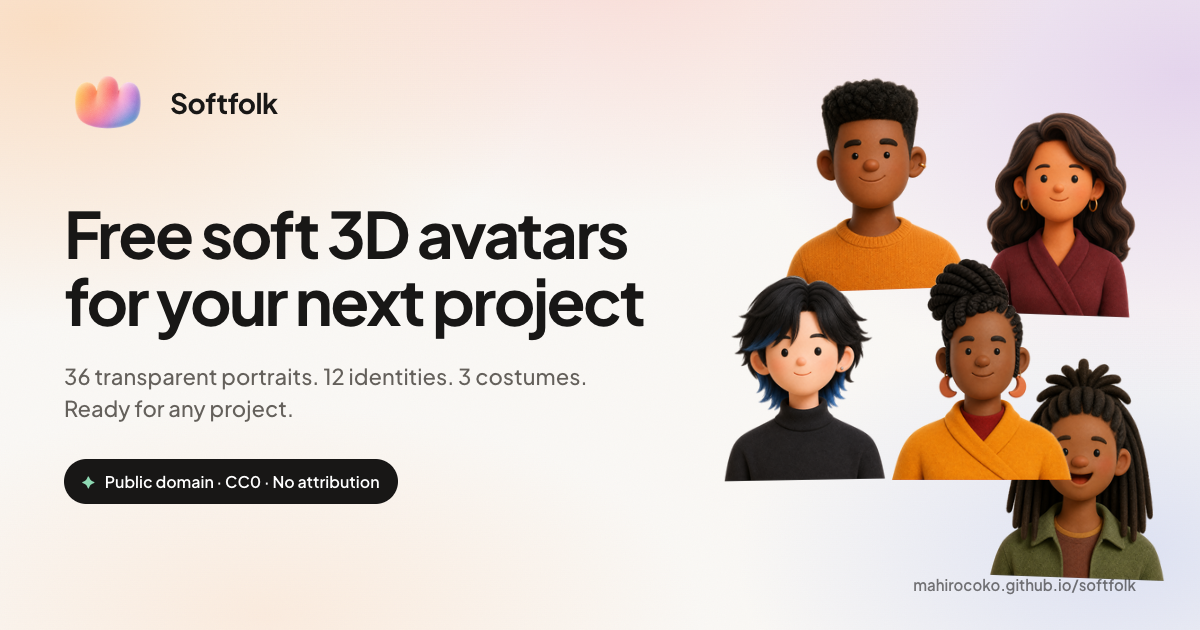
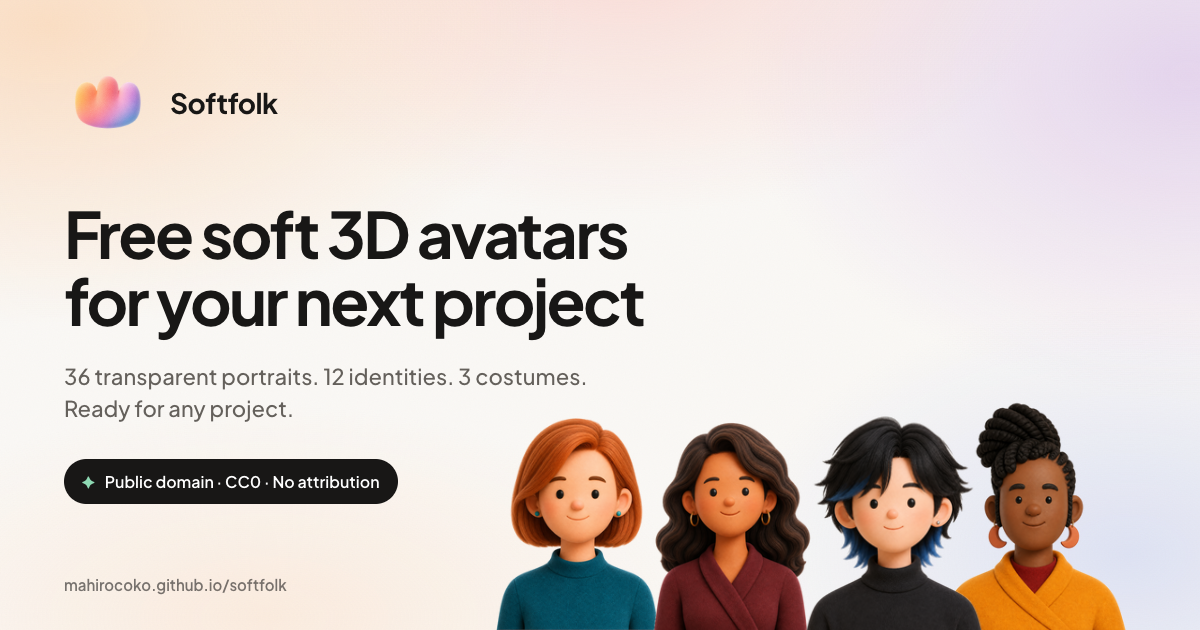
chore: refresh README and social share card

Changed region(s): [[0.4008, 0.1206, 0.9867, 1.0], [0.0617, 0.9048, 0.2467, 0.9349]]

diff --git a/brand/social/softfolk-og-source.html b/brand/social/softfolk-og-source.html
@@ -112,53 +112,51 @@
       .portrait-field {
         position: absolute;
         z-index: 1;
-        inset: 0 0 0 auto;
-        width: 560px;
+        inset: 0 48px 0 auto;
+        width: 690px;
       }
 
       .portrait {
         position: absolute;
-        width: 230px;
-        height: 230px;
+        bottom: 0;
         object-fit: contain;
       }
 
-      .juno {
-        top: 60px;
-        right: 214px;
-        transform: rotate(-2deg);
+      .aster {
+        left: 0;
+        width: 230px;
+        height: 230px;
+        z-index: 1;
       }
 
       .mira {
-        top: 85px;
-        right: 24px;
-        transform: rotate(2deg);
+        left: 150px;
+        width: 240px;
+        height: 240px;
+        bottom: -4px;
+        z-index: 2;
       }
 
       .kai {
-        top: 250px;
-        right: 284px;
-        z-index: 2;
-        transform: rotate(-1deg);
+        left: 300px;
+        width: 260px;
+        height: 260px;
+        bottom: -18px;
+        z-index: 4;
       }
 
       .zuri {
-        top: 250px;
-        right: 104px;
+        left: 450px;
+        width: 240px;
+        height: 240px;
+        bottom: -4px;
         z-index: 3;
-      }
-
-      .eden {
-        top: 348px;
-        right: 4px;
-        z-index: 2;
-        transform: rotate(2deg);
       }
 
       .url {
         position: absolute;
         z-index: 2;
-        right: 64px;
+        left: 64px;
         bottom: 36px;
         color: rgba(24, 23, 22, 0.58);
         font-size: 15px;
@@ -178,11 +176,10 @@
     </main>
 
     <div class="portrait-field" aria-hidden="true">
-      <img class="portrait juno" src="../../assets/juno/signature.png" alt="">
+      <img class="portrait aster" src="../../assets/aster/signature.png" alt="">
       <img class="portrait mira" src="../../assets/mira/signature.png" alt="">
       <img class="portrait kai" src="../../assets/kai/signature.png" alt="">
       <img class="portrait zuri" src="../../assets/zuri/signature.png" alt="">
-      <img class="portrait eden" src="../../assets/eden/signature.png" alt="">
     </div>
 
     <span class="url">mahirocoko.github.io/softfolk</span>

diff --git a/README.md b/README.md
@@ -1,10 +1,14 @@
 # Softfolk
 
-An open collection of 12 original soft 3D identities with signature, everyday, and work portraits, ready to use in profiles, prototypes, and interfaces.
+[![Softfolk — 36 transparent portraits across 12 identities and 3 costumes](brand/social/softfolk-og.png)](https://mahirocoko.github.io/softfolk/)
 
-## Avatars
+Softfolk is a collection of 12 original soft 3D characters. Each one comes in three costumes—signature, everyday, and work—for a total of 36 transparent 256×256 PNG portraits.
 
-| Avatar | Signature | Everyday | Work |
+Use them in profiles, prototypes, mockups, or interfaces. **[Browse the collection →](https://mahirocoko.github.io/softfolk/)**
+
+## Collection
+
+| Identity | Signature | Everyday | Work |
 | --- | --- | --- | --- |
 | Aster | [`signature`](assets/aster/signature.png) | [`everyday`](assets/aster/everyday.png) | [`work`](assets/aster/work.png) |
 | Juno | [`signature`](assets/juno/signature.png) | [`everyday`](assets/juno/everyday.png) | [`work`](assets/juno/work.png) |
@@ -19,33 +23,23 @@ An open collection of 12 original soft 3D identities with signature, everyday, a
 | Sora | [`signature`](assets/sora/signature.png) | [`everyday`](assets/sora/everyday.png) | [`work`](assets/sora/work.png) |
 | Eden | [`signature`](assets/eden/signature.png) | [`everyday`](assets/eden/everyday.png) | [`work`](assets/eden/work.png) |
 
-Every portrait is a metadata-free 256×256 transparent RGBA PNG.
+## Use an avatar
 
-## Metadata
-
-[`data/avatars.json`](data/avatars.json) provides deterministic identity and costume paths plus descriptive discovery tags. The canonical path pattern is:
+Portraits follow one path pattern:
 
 ```text
 assets/<identity>/<costume>.png
 ```
 
-The three costume IDs are `signature`, `everyday`, and `work`.
+For example:
 
-## Current contracts
+```html
+<img src="/assets/kai/work.png" alt="Kai in their work outfit" width="256" height="256" />
+```
 
-- `assets/<identity>/<costume>.png` owns the canonical public pixels.
-- `data/avatars.json` owns the 12×3 identity, tag, and path inventory.
-- `src/collection.ts` and `tests/source-inventory.test.ts` own the path and 256×256 transparent RGBA delivery contract.
-- `index.html` and `src/` own the catalog behavior and presentation.
-- `.github/workflows/deploy-pages.yml` owns the verified GitHub Pages build and deployment flow.
-- `brand/softfolk-symbol.png`, `brand/icons/`, and `brand/README.md` own the selected Q brand delivery.
-- `brand/social/softfolk-og.png`, `brand/social/softfolk-og-source.html`, and `brand/social/README.md` own the deterministic 1200×630 share-card contract.
+[`data/avatars.json`](data/avatars.json) lists every identity, costume path, and discovery tag if you want to build a picker or search the collection.
 
-Generation prompts, provider receipts, rejected candidates, and review sheets are not active package contracts. Git history preserves superseded production context.
-
-## Website
-
-A static catalog for the 12×3 collection lives at the repository root. The selected Softfolk symbol Q is the house mark on the first screen. The mark’s `src` is the canonical 256×256 delivery with matching `width`/`height`; `srcset` adds the 512×512 delivery at `512w`, and `sizes` matches the CSS display clamp so 2x screens get enough source density without changing layout size. Favicons use `brand/icons/softfolk-32.png` and `brand/icons/softfolk-16.png`; the apple-touch icon is `brand/icons/softfolk-256.png`. Vite copies only those four runtime files into `dist`. The archival master, source, 64/128 deliveries, QA evidence, and pack tooling stay in the repo.
+## Run the website locally
 
 ```text
 pnpm install
@@ -53,12 +47,8 @@ pnpm dev
 pnpm verify
 ```
 
-`pnpm verify` typechecks, runs source and interaction checks, builds the site for the standard `/softfolk/` GitHub Pages project base, then checks that `dist` still carries the canonical nested PNG files, a fresh copy of `data/avatars.json`, the runtime Q icon files, and the byte-identical 1200×630 Open Graph image. Hosted image, fetch, download, and resource URLs resolve through that project base; visible package snippets remain canonical `/assets/<identity>/<costume>.png` examples.
-
-## Deployment
-
-The production URL is `https://mahirocoko.github.io/softfolk/`. Pushes to `main` run the pinned GitHub Pages workflow, install the exact pnpm version, execute `pnpm verify`, upload `dist`, and deploy through the `github-pages` environment. The canonical Open Graph image is served at `https://mahirocoko.github.io/softfolk/brand/social/softfolk-og.png`.
+`pnpm verify` runs the typecheck, tests, production build, and output checks.
 
 ## License
 
-Softfolk is dedicated to the public domain under [CC0 1.0 Universal](LICENSE). You can use, modify, and share the avatars without asking permission or giving credit.
+Softfolk is released under [CC0 1.0 Universal](LICENSE). You can use, modify, and share the avatars without asking permission or giving credit.

diff --git a/brand/social/README.md b/brand/social/README.md
@@ -8,8 +8,8 @@
 - Intended use: Open Graph and Twitter large-image previews
 - Dimensions: 1200×630
 - Format: opaque, metadata-free RGB PNG
[1 lines of base64/hex data omitted]
-- Visual source: accepted Softfolk Q, current whole-page gradient/noise, and canonical transparent signature portraits
[1 lines of base64/hex data omitted]
+- Visual source: accepted Softfolk Q, current whole-page gradient/noise, and the canonical Aster, Mira, Kai, and Zuri signature portraits
 - Copy source: authored directly in `brand/social/softfolk-og-source.html`; no generated raster text
 - Production mode: deterministic browser render, not image generation
 - Status: accepted production share card
